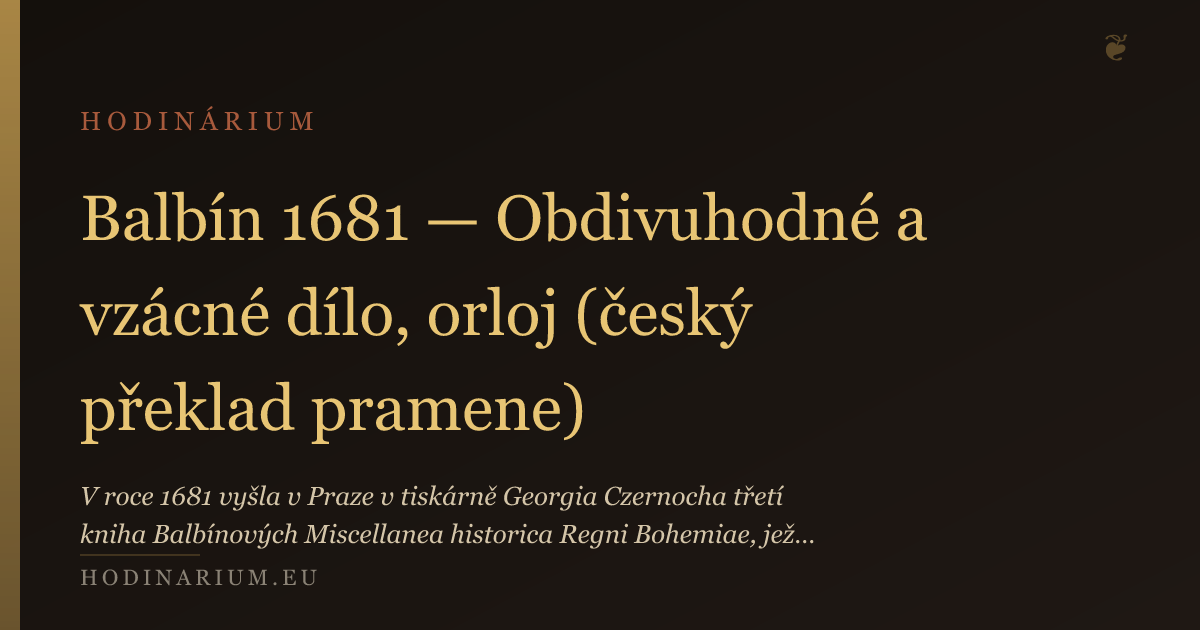
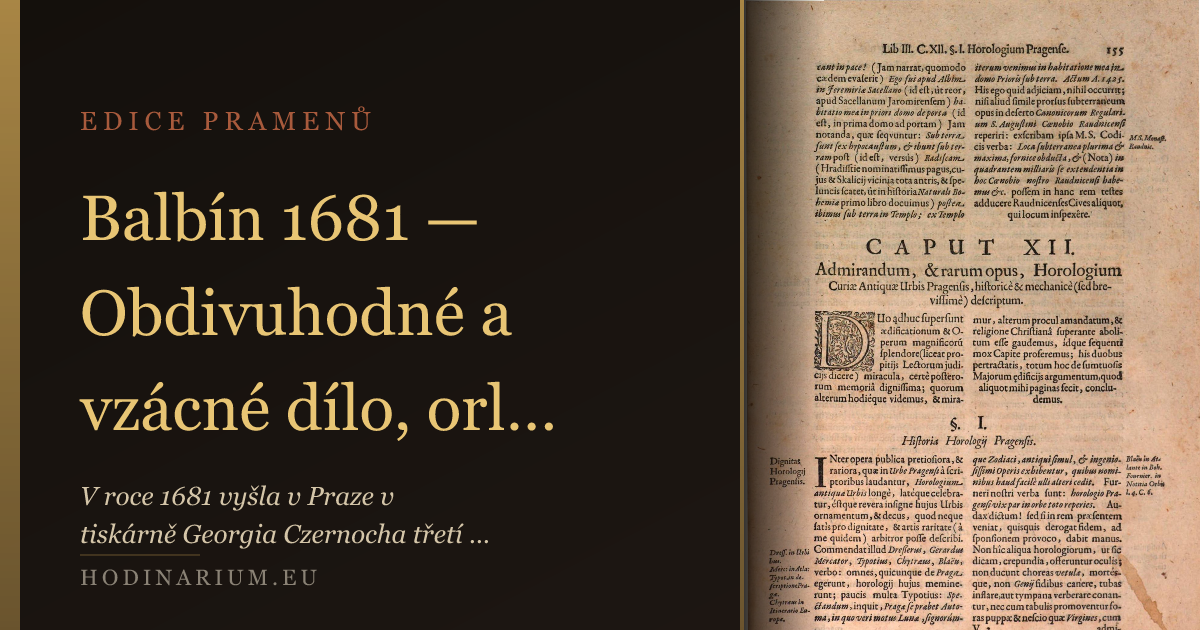
feat(edice): hero (sken 1. strany) → náhledová karta + OG boční panel
Edice mají v těle hero ::photo skenu první stránky pramene, ale ten se
nepropisoval do přehledové karty /edice ani do OG obrázku.

- build-catalog.ts: extractFirstImage rozpoznává i direktivu `::photo{…}`
  (jako fallback po markdown/<Photo>/<img> → nulová regrese existujících
  thumbnailů); countImages počítá i ::photo. Karta v /edice teď ukáže hero.
- build-og-images.ts: u kategorie edice se hero sken stáhne z R2 a vsadí
  do pravého ~40% panelu OG (cover-crop, zarovnaný nahoru = vidět titul/
  incipit), text zúžen do levých ~60 %, eyebrow „Edice pramenů". Fallback
  na čistě textovou kartu při chybě fetche.
- Regenerováno: _catalog.json + catalog.json (5 thumbnailů, 33 imageCount),
  OG balbin + teicher (ověřeno vizuálně).

diff --git a/scripts/build-og-images.ts b/scripts/build-og-images.ts
@@ -24,6 +24,30 @@ interface OgPage {
   description?: string;
   category?: string;
   siteLabel: string;
+  /** Cesta k hero obrázku (/img/…) — u edic se vsadí do bočního panelu OG. */
+  thumbnail?: string | null;
+}
+
+/** R2 CDN base (symetrie s rehype-picture / Photo.astro / remark-csh-directives). */
+const CDN_BASE = 'https://pub-e96bd8c658664b38af73a48cb8872b60.r2.dev';
+
+/**
+ * Stáhne rasterový obrázek z R2 a vrátí ho jako `data:` URI pro embed do SVG
+ * (resvg neumí vzdálené href, jen embedded data nebo lokální soubor). Vrací
+ * null při chybě → generate() spadne zpět na čistě textovou kartu.
+ */
+async function fetchImageDataUri(imgPath: string): Promise<string | null> {
+  try {
+    const url = imgPath.startsWith('/img/') ? CDN_BASE + imgPath : imgPath;
+    const res = await fetch(url);
+    if (!res.ok) return null;
+    const buf = Buffer.from(await res.arrayBuffer());
+    const ct = (res.headers.get('content-type') || '').toLowerCase();
+    const mime = ct.includes('png') ? 'image/png' : 'image/jpeg';
+    return `data:${mime};base64,${buf.toString('base64')}`;
+  } catch {
+    return null;
+  }
 }
 
 const HODINARIUM_OG = join(ROOT, 'apps', 'hodinarium-eu', 'public', 'og');
@@ -63,6 +87,7 @@ const CATEGORY_LABELS: Record<string, string> = {
   slovnik: 'Hodinářský slovník',
   kroky: 'Hodinový krok',
   kronika: 'Kronika Hodinária',
+  edice: 'Edice pramenů',
 };
 
 function escapeXml(s: string): string {
@@ -113,15 +138,17 @@ interface RenderOpts {
   excerpt?: string;
   domain: string;
   variant: 'hodinarium' | 'horologie';
+  /** `data:` URI hero skenu — když je, vykreslí se vpravo boční panel (edice). */
+  image?: string;
 }
 
 function buildSvg(opts: RenderOpts): string {
   const c = COLORS[opts.variant];
+  const hasImage = Boolean(opts.image);
 
-  // Title — rozlož na max 3 řádky
-  const titleLines = wrapText(opts.title, 28, 3);
-  // Excerpt — max 2 řádky
-  const excerptLines = opts.excerpt ? wrapText(opts.excerpt, 60, 2) : [];
+  // S bočním panelem (pravých ~40 %) je text úžeji zalomený do levých ~60 %.
+  const titleLines = wrapText(opts.title, hasImage ? 17 : 28, 3);
+  const excerptLines = opts.excerpt ? wrapText(opts.excerpt, hasImage ? 34 : 60, 2) : [];
 
   // Vertical layout — eyebrow nahoře, title pod ním, excerpt zespodu, domain úplně dole
   const eyebrowY = 130;
@@ -141,6 +168,11 @@ function buildSvg(opts: RenderOpts): string {
       <stop offset="0%" stop-color="${c.border}" stop-opacity="0.9" />
       <stop offset="100%" stop-color="${c.border}" stop-opacity="0.5" />
     </linearGradient>
+    <clipPath id="ogPanel"><rect x="744" y="0" width="456" height="630" /></clipPath>
+    <linearGradient id="panelShade" x1="0" y1="0" x2="1" y2="0">
+      <stop offset="0%" stop-color="${c.bg}" stop-opacity="0.85" />
+      <stop offset="18%" stop-color="${c.bg}" stop-opacity="0" />
+    </linearGradient>
   </defs>
 
   <!-- Pozadí -->
@@ -148,9 +180,15 @@ function buildSvg(opts: RenderOpts): string {
 
   <!-- Brass left border (mosazný pruh) -->
   <rect x="0" y="0" width="20" height="630" fill="url(#brass)" />
-
+${hasImage ? `
+  <!-- Boční panel: sken první stránky pramene (cover-crop, zarovnaný nahoru
+       aby byl vidět titul/incipit). Tmavý gradient na levé hraně oddělí text. -->
+  <image x="744" y="0" width="456" height="630" href="${opts.image}"
+         preserveAspectRatio="xMidYMin slice" clip-path="url(#ogPanel)" />
+  <rect x="744" y="0" width="456" height="630" fill="url(#panelShade)" clip-path="url(#ogPanel)" />
+  <rect x="740" y="0" width="4" height="630" fill="url(#brass)" />` : `
   <!-- Decentní fleuron ornament v rohu -->
-  <text x="1130" y="60" font-family="Georgia, serif" font-size="36" fill="${c.border}" opacity="0.4" text-anchor="end">❦</text>
+  <text x="1130" y="60" font-family="Georgia, serif" font-size="36" fill="${c.border}" opacity="0.4" text-anchor="end">❦</text>`}
 
   <!-- Eyebrow (kategorie / web) -->
   <text x="80" y="${eyebrowY}"
@@ -222,12 +260,18 @@ async function generate(outDir: string, page: OgPage, variant: 'hodinarium' | 'h
   const eyebrow = page.category
     ? CATEGORY_LABELS[page.category] ?? page.siteLabel
     : page.siteLabel;
+  // Edice pramenů: hero sken první stránky do bočního panelu (fetch z R2).
+  let image: string | undefined;
+  if (variant === 'hodinarium' && page.category === 'edice' && page.thumbnail) {
+    image = (await fetchImageDataUri(page.thumbnail)) ?? undefined;
+  }
   const svg = buildSvg({
     title: page.title,
     eyebrow,
     excerpt: page.description,
     domain: variant === 'hodinarium' ? 'hodinarium.eu' : 'horologie.cz',
     variant,
+    image,
   });
   const png = renderPng(svg);
   await writeFile(join(outDir, `${page.slug}.png`), png);
@@ -238,6 +282,7 @@ interface CatalogEntry {
   title: string;
   category: string;
   excerpt: string;
+  thumbnail?: string | null;
 }
 
 /**
@@ -517,6 +562,7 @@ async function main() {
       description: entry.excerpt,
       category: entry.category,
       siteLabel: 'Hodinárium',
+      thumbnail: entry.thumbnail,
     });
   }
 

diff --git a/scripts/build-catalog.ts b/scripts/build-catalog.ts
@@ -88,12 +88,27 @@ function extractFirstImage(body: string): string | null {
     if (rasterRe.test(m[1])) candidates.push({ idx: m.index!, url: m[1] });
   }
 
+  // Pattern D (fallback): `::photo{… src="/img/…"}` direktiva (po migraci A.11
+  // na Sveltia-friendly direktivy). Použije se JEN když výše nic nepadlo —
+  // aby se nezměnily existující thumbnaily článků, co mají i markdown/<Photo>
+  // obrázek. Edice pramenů mají v těle pouze ::photo, takže se vezme hero
+  // (sken první stránky pramene = první ::photo v dokumentu).
+  if (candidates.length === 0) {
+    const rePhotoDir = /::photo\{[\s\S]*?\bsrc=["'](\/img\/[^"']+)["']/g;
+    for (const m of body.matchAll(rePhotoDir)) {
+      if (rasterRe.test(m[1])) candidates.push({ idx: m.index!, url: m[1] });
+    }
+  }
+
   candidates.sort((a, b) => a.idx - b.idx);
   return candidates[0]?.url ?? null;
 }
 
 function countImages(body: string): number {
-  return (body.match(/!\[[^\]]*\]\(/g) ?? []).length;
+  // Markdown `![](…)` + direktiva `::photo{…}` (po A.11 migraci).
+  const md = (body.match(/!\[[^\]]*\]\(/g) ?? []).length;
+  const photoDir = (body.match(/::photo\{/g) ?? []).length;
+  return md + photoDir;
 }
 
 function extractExcerpt(body: string): string {
